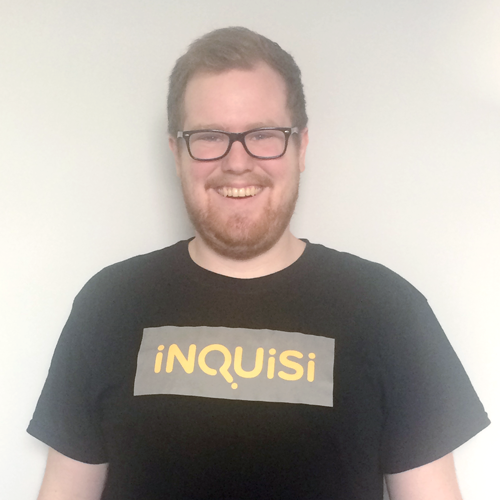
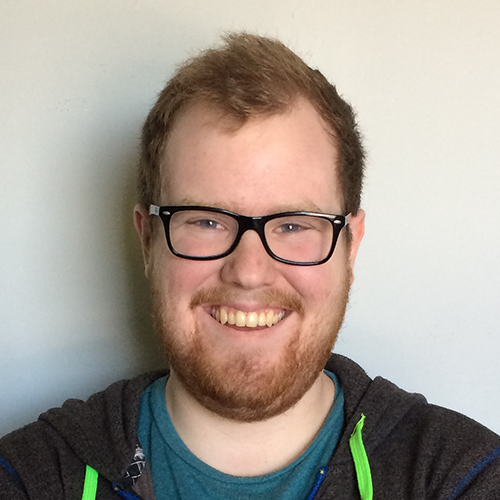
Add Features and new team photos

diff --git a/index.html b/index.html
@@ -50,6 +50,36 @@
 
 <body id="page-top" data-spy="scroll" data-target=".navbar-fixed-top" ontouchstart="">
 
+    <!-- Modal for Buying -->
+    <section class="buyModal">
+        <div class="modal fade" id="buyModal" tabindex="-1" role="dialog" aria-hidden="true">
+        <div class="modal-dialog">
+            <div class="modal-content">
+                <div class="modal-header">
+                    <button type="button" class="close" data-dismiss="modal" aria-label="Close"><span aria-hidden="true">&times;</span></button>
+                    <h4>Thank you for your interest!</h4>
+                </div>
+                <div class="modal-body">
+                    <p>We're not quite ready to launch yet, but we'll let you know when we are!</p>
+
+                    <p>All we need is your email below. We won't spam you, we promise.</p>
+                    <div class="mc_embed_signup mc-signup-modal">  
+                        <form action="http://inquisi.us10.list-manage.com/subscribe/post?u=99bc45b8b9fd58a16366b63c7&amp;id=0072bc9f6f" method="post" id="mc-embedded-subscribe-form" name="mc-embedded-subscribe-form" class="validate" target="_blank" novalidate>
+                            <div id="mc_embed_signup_scroll">
+                            
+                            <input type="email" value="" name="EMAIL" class="email form-control" id="mce-EMAIL" placeholder="Email" required>
+                            <!-- real people should not fill this in and expect good things - do not remove this or risk form bot signups-->
+                            <div style="position: absolute; left: -5000px;"><input type="text" name="b_99bc45b8b9fd58a16366b63c7_0072bc9f6f" tabindex="-1" value=""></div>
+                            <div class="clear btn-group"><input type="submit" value="Submit" name="subscribe" id="mc-embedded-subscribe" class="button btn btn-info"></div>
+                            </div>
+                        </form>
+                    </div>
+                </div>
+            </div>
+        </div>
+        </div>
+    </section>
+
     <!-- Navigation -->
     <nav class="navbar navbar-default navbar-fixed-top" role="navigation">
         <div class="container">
@@ -73,9 +103,9 @@
                     <li>
                         <a class="page-scroll" href="#features">Features</a>
                     </li>
-                    <li>
+                    <!-- <li>
                         <a class="page-scroll" href="#pricing">Pricing</a>
-                    </li>
+                    </li> -->
                     <li>
                         <a class="page-scroll" href="#team">Team</a>
                     </li>
@@ -83,7 +113,8 @@
                         <a class="page-scroll" href="http://blog.inquisi.io">Blog</a>
                     </li>
                     <li>
-                        <a class="page-scroll" href="#buy"><span class="yellow">Buy</span></a>
+                        <!-- <a class="page-scroll" href="#buy"><span class="yellow">Buy</span></a> -->
+                        <a data-toggle="modal" data-target="#buyModal"><span class="yellow">Buy</span></a>
                     </li>
                 </ul>
             </div>
@@ -130,8 +161,7 @@
                 </div>
                 <div id="phoneContainer" class="col-sm-6 col-lg-6 text-center wow fadeInUp" data-wow-duration="1.2s">
                     <div class="phoneMask hidden-xs">
-                        <img src="img/inquisi-video-loader.png" id="video-loader">
-                        <video autoplay loop muted id="demo-video">
+                        <video autoplay loop muted id="demo-video" poster="img/inquisi-video-loader.png">
                         <source src="vid/inquisi-demo.webm"
                                type='video/webm;codecs="vp8, vorbis"' />
                         </video>
@@ -162,59 +192,59 @@
                             </div>
                             <div class="media-body">
                                 <h3 class="media-heading">Engage Learners</h3>
-                                   Give your students a chance to communicate.
+                                   Give each of your students a chance to communicate. Without having to call on a single student, you can reach out to every single student and get their input. With iNQUiSi, it's easy to keep everyone involved and learning.
                             </div>
                         </div>
 
                         <div class="col-xs-12 col-md-6 wow fadeInUp" data-wow-offset="10" data-wow-delay="0.2s">
                             <div class="media-left">
-                                <i class="media-object educ-110"></i>
+                                <i class="media-object educ-048"></i>
                             </div>
                             <div class="media-body">
                                 <h3 class="media-heading">Analyze Data</h3>
-                                Donec eget rhoncus sapien. Integer congue magna aliquet dui dictum dignissim. Aliquam pulvinar volutpat neque, vel dapibus urna suscipit eget. Morbi vel placerat quam. Duis commodo lobortis sem, a pretium augue molestie nec. Nam lectus metus, vulputate in accumsan a, pellentesque at nulla. Integer commodo convallis turpis ac tempus. Nullam interdum sodales varius.
+                                Effortlessly collect data about your course. When you have every student response at your fingertips, it's simple to see what topics students are understanding or struggling with. If a student understands <em>Topic A</em>, do they also understand <em>Topic B</em>? We'll crunch the numbers for you, so you can run your classroom more efficiently.
                             </div>
                         </div>
                 </div> <!-- end row -->
                 <div class="row">
+                        <div class="col-xs-12 col-md-6 wow fadeInUp" data-wow-offset="10" data-wow-delay="0.4s">
+                            <div class="media-left">
+                                <i class="media-object educ-024"></i>
+                            </div>
+                            <div class="media-body">
+                                <h3 class="media-heading">No Hardware</h3>
+                                Nobody wants another piece of hardware. As an instructor, you shouldn't have to fuss with setting up a base-station and registering remote ID codes. With iNQUiSi, getting started is as easy as clicking a button. Students can enroll easily, and you can focus on asking engaging questions.
+                            </div>
+                        </div>
+
                         <div class="col-xs-12 col-md-6 wow fadeInUp" data-wow-offset="10" data-wow-delay="0.3s">
                             <div class="media-left">
                                 <i class="media-object educ-080"></i>
                             </div>
                             <div class="media-body">
                                 <h3 class="media-heading">Mobile Ready</h3>
-                                Lorem ipsum dolor sit amet, consectetur adipiscing elit. In finibus fringilla erat sit amet vulputate. Curabitur hendrerit nulla at leo luctus, in placerat diam egestas. Fusce non sodales mi. Nam maximus tincidunt molestie. Donec scelerisque purus est. Nam iaculis fringilla sem in ultrices. Ut fermentum quam vitae sapien maximus, vitae rutrum est suscipit.
-                            </div>
-                        </div>
-
-                        <div class="col-xs-12 col-md-6 wow fadeInUp" data-wow-offset="10" data-wow-delay="0.4s">
-                            <div class="media-left">
-                                <i class="media-object educ-001"></i>
-                            </div>
-                            <div class="media-body">
-                                <h3 class="media-heading">No Hardware</h3>
-                                Donec eget rhoncus sapien. Integer congue magna aliquet dui dictum dignissim. Aliquam pulvinar volutpat neque, vel dapibus urna suscipit eget. Morbi vel placerat quam. Duis commodo lobortis sem, a pretium augue molestie nec. Nam lectus metus, vulputate in accumsan a, pellentesque at nulla. Integer commodo convallis turpis ac tempus. Nullam interdum sodales varius.
+                                Why bother dragging a computer to class when you have one in your pocket? With a mobile-first design, iNQUiSi was built with smartphones in mind. Answering questions should be as easy as pulling out your smartphone and logging in, so now it is.
                             </div>
                         </div>
                 </div> <!-- end row -->
                 <div class="row">
                         <div class="col-xs-12 col-md-6 wow fadeInUp" data-wow-offset="10" data-wow-delay="0.5s">
                             <div class="media-left">
-                                <i class="media-object educ-001"></i>
+                                <i class="media-object educ-066"></i>
                             </div>
                             <div class="media-body">
-                                <h3 class="media-heading">Feature</h3>
-                                Lorem ipsum dolor sit amet, consectetur adipiscing elit. In finibus fringilla erat sit amet vulputate. Curabitur hendrerit nulla at leo luctus, in placerat diam egestas. Fusce non sodales mi. Nam maximus tincidunt molestie. Donec scelerisque purus est. Nam iaculis fringilla sem in ultrices. Ut fermentum quam vitae sapien maximus, vitae rutrum est suscipit.
+                                <h3 class="media-heading">BYOD</h3>
+                                What if a student doesn't have a smartphone? With our cloud-based platform, it doesn't matter what device anyone uses. If it has a web browser, it works with iNQUiSi. That makes everyone's lives easier.
                             </div>
                         </div>
 
                         <div class="col-xs-12 col-md-6 wow fadeInUp" data-wow-offset="10" data-wow-delay="0.6s">
                             <div class="media-left">
-                                <i class="media-object educ-001"></i>
+                                <i class="media-object educ-086"></i>
                             </div>
                             <div class="media-body">
                                 <h3 class="media-heading">Pedagogical</h3>
-                                Donec eget rhoncus sapien. Integer congue magna aliquet dui dictum dignissim. Aliquam pulvinar volutpat neque, vel dapibus urna suscipit eget. Morbi vel placerat quam. Duis commodo lobortis sem, a pretium augue molestie nec. Nam lectus metus, vulputate in accumsan a, pellentesque at nulla. Integer commodo convallis turpis ac tempus. Nullam interdum sodales varius.
+                                Pedagogical Research has proven that Classroom Response Systems are good for everyone in the classroom. Students are more engaged and retain information better than traditional methods, and instructors can learn to ask more meaningful questions. <a href="http://cft.vanderbilt.edu/guides-sub-pages/clickers/">See for yourself!</a>
                             </div>
                         </div>
                 </div> <!-- end row -->
@@ -224,7 +254,7 @@
     </section>
 
     <!-- Pricing Section -->
-    <section id="pricing" class="pricing-section">
+   <!--  <section id="pricing" class="pricing-section">
         <div class="container">
             <div class="row">
                 <h1>Pricing</h1>
@@ -319,7 +349,7 @@
                     </div>
             </div>
         </div>
-    </section>
+    </section> -->
 
     <!-- Team Section -->
     <section id="team" class="team-section">
@@ -387,9 +417,6 @@
                     </p>
                 </div>
             </div>
-
-
-
         </div>
     </section>
 
@@ -404,7 +431,7 @@
     </section>
 
     <!-- Buy Section -->
-    <section id="buy" class="buy-section">
+    <section class="buy-section">
         <div class="container">
             <div class="row">
                 <div class="hidden-xs hidden-sm col-md-2">
@@ -416,10 +443,10 @@
                 </div>
                 <div class="col-xs-6 col-lg-6 footerButtons">
                     <div class="btn-group">
-                          <button type="button" class="btn btn-primary" aria-expanded="false"> Get Started </button>
+                          <button type="button" class="btn btn-primary" aria-expanded="false" data-toggle="modal" data-target="#buyModal"> Get Started </button>
                   </div>
                   <div class="btn-group">
-                          <button type="button" class="btn btn-info" aria-expanded="false"> 
+                          <button type="button" class="btn btn-info" aria-expanded="false" data-toggle="modal" data-target="#buyModal"> 
                           Buy License</button>
                   </div>
                 </div>
@@ -462,23 +489,33 @@
     <!-- Bootstrap Core JavaScript -->
     <script src="js/bootstrap.min.js"></script>
     <script type="text/javascript">
-    $('#buyModal').on('show.bs.modal', function (event) {
-          var button = $(event.relatedTarget) // Button that triggered the modal
-          var sub = button.data('subscription')
-          // Update the modal's content. We'll use jQuery here, but you could use a data binding library or other methods instead.
-          var modal = $(this)
-          modal.find('.subscriptionSelect').val(sub).change()
-        });
+    $('#buyModal').modal({
+        backdrop: true,
+        show: false
+    });
 
-    $('.subscriptionSelect').change(function() {
-          var type = ["Semi-Annual", "Annual"]
-          var price = ["30", "50"]
+    $(function() {
+        if (window.location.hash.indexOf("#buy") !== -1) {
+            $("#buyModal").modal('show');
+        }
+    });
+    // $('#buyModal').on('show.bs.modal', function (event) {
+    //       var button = $(event.relatedTarget) // Button that triggered the modal
+    //       var sub = button.data('subscription')
+    //       // Update the modal's content. We'll use jQuery here, but you could use a data binding library or other methods instead.
+    //       var modal = $(this)
+    //       modal.find('.subscriptionSelect').val(sub).change()
+    //     });
 
-          var modal = $('#buyModal')
-          var value = $(this).val()
-          modal.find('.modal-title').text(type[value] + " Subscription")
-          modal.find('#totalLabel').text("Total: $" + price[value])
-        });
+    // $('.subscriptionSelect').change(function() {
+    //       var type = ["Semi-Annual", "Annual"]
+    //       var price = ["30", "50"]
+
+    //       var modal = $('#buyModal')
+    //       var value = $(this).val()
+    //       modal.find('.modal-title').text(type[value] + " Subscription")
+    //       modal.find('#totalLabel').text("Total: $" + price[value])
+    //     });
     </script>
 
     <!-- Load Plugins -->

diff --git a/css/main.css b/css/main.css
@@ -61,6 +61,37 @@ a:focus i{
 	color: #F68B32;
 }
 
+/************ MODAL STYLING ****************/
+.modal{
+	z-index: 5000;
+	margin-top: 55px;
+}
+
+.modal-header h4{
+	margin: 0;
+	font-size: 16px;
+}
+
+.modal-backdrop{
+	bottom: -500%;
+	z-index: 4999;
+	background-color: #414549;
+}
+
+.mc-signup-modal .email{
+	margin-top: 25px;
+}
+
+.mc-signup-modal .btn-group{
+	width: 100%;
+	margin: 0 auto;
+	margin-top: 10px;
+}
+
+.mc-signup-modal .btn-group .btn{
+	width: 100%;
+}
+
 /************** BEGIN NAVBAR ****************/
 
 .navbar-toggle{
@@ -108,6 +139,10 @@ a:focus i{
 .inquisiLogo{
 	width: 100px;
 	transition: .3s;
+}
+
+.nav li{
+	cursor: pointer;
 }
 
 .top-nav-collapse .inquisiLogo{
@@ -496,6 +531,9 @@ footer a:hover{
 	body{
 		background-color: #4493CF;
 	}
+	.modal{
+		margin-top: 35px;
+	}
 	.top-nav-collapse{
 		background-color: #838d97 !important;
 		border-bottom: 3px solid #6c777f !important;
@@ -557,6 +595,14 @@ footer a:hover{
 		width: 50.7%;
 		border-radius: 2px;
 		z-index: 3;
+	}
+
+	#demo-video{
+		width: 100%;
+		height: 100%;
+		background: url(../img/inquisi-video-loader.png);
+		background-repeat: no-repeat;
+		background-size: 100% 100%;
 	}
 
 	.teamProfile{

diff --git a/css/scrolling-nav.css b/css/scrolling-nav.css
@@ -58,7 +58,8 @@ html {
     padding-top: 50px;
     padding-bottom: 15px;
     text-align: center;
-    background: #e6e9ec;
+    background: #FFF;
+    /*background: #e6e9ec;*/
 }
 
 .blog-section{
@@ -66,7 +67,8 @@ html {
     padding-top: 50px;
     padding-bottom: 15px;
     text-align: center;
-    background: #FFF;
+    /*background: #FFF;*/
+    background: #e6e9ec;
 }
 
 .buy-section {
